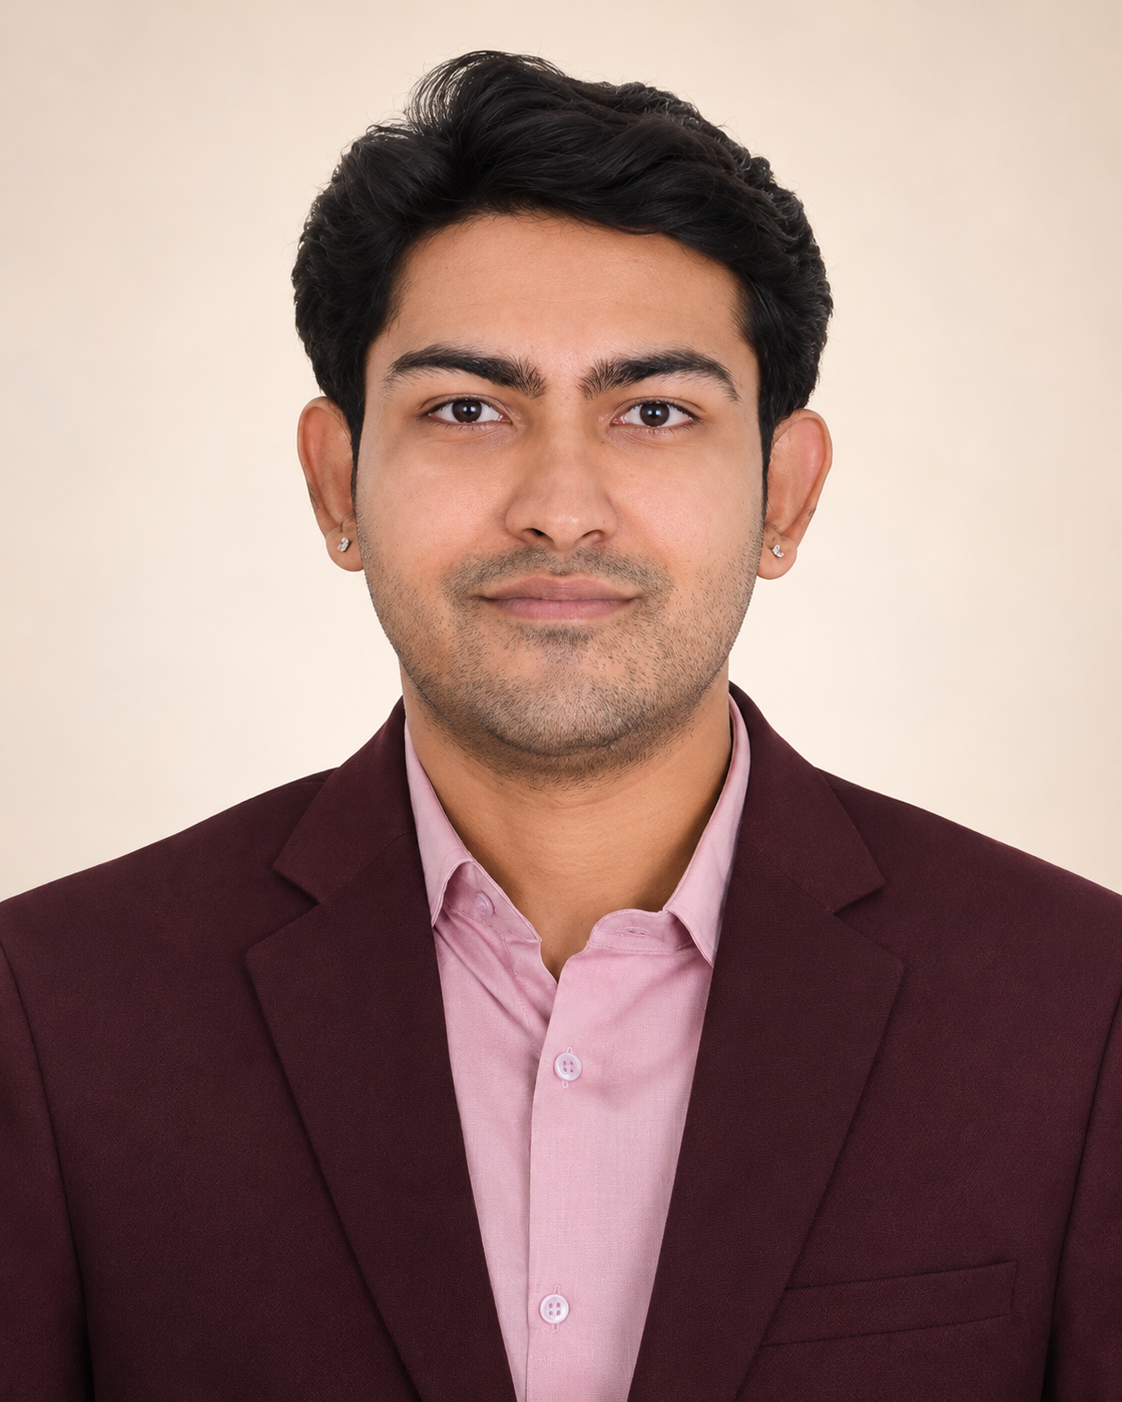
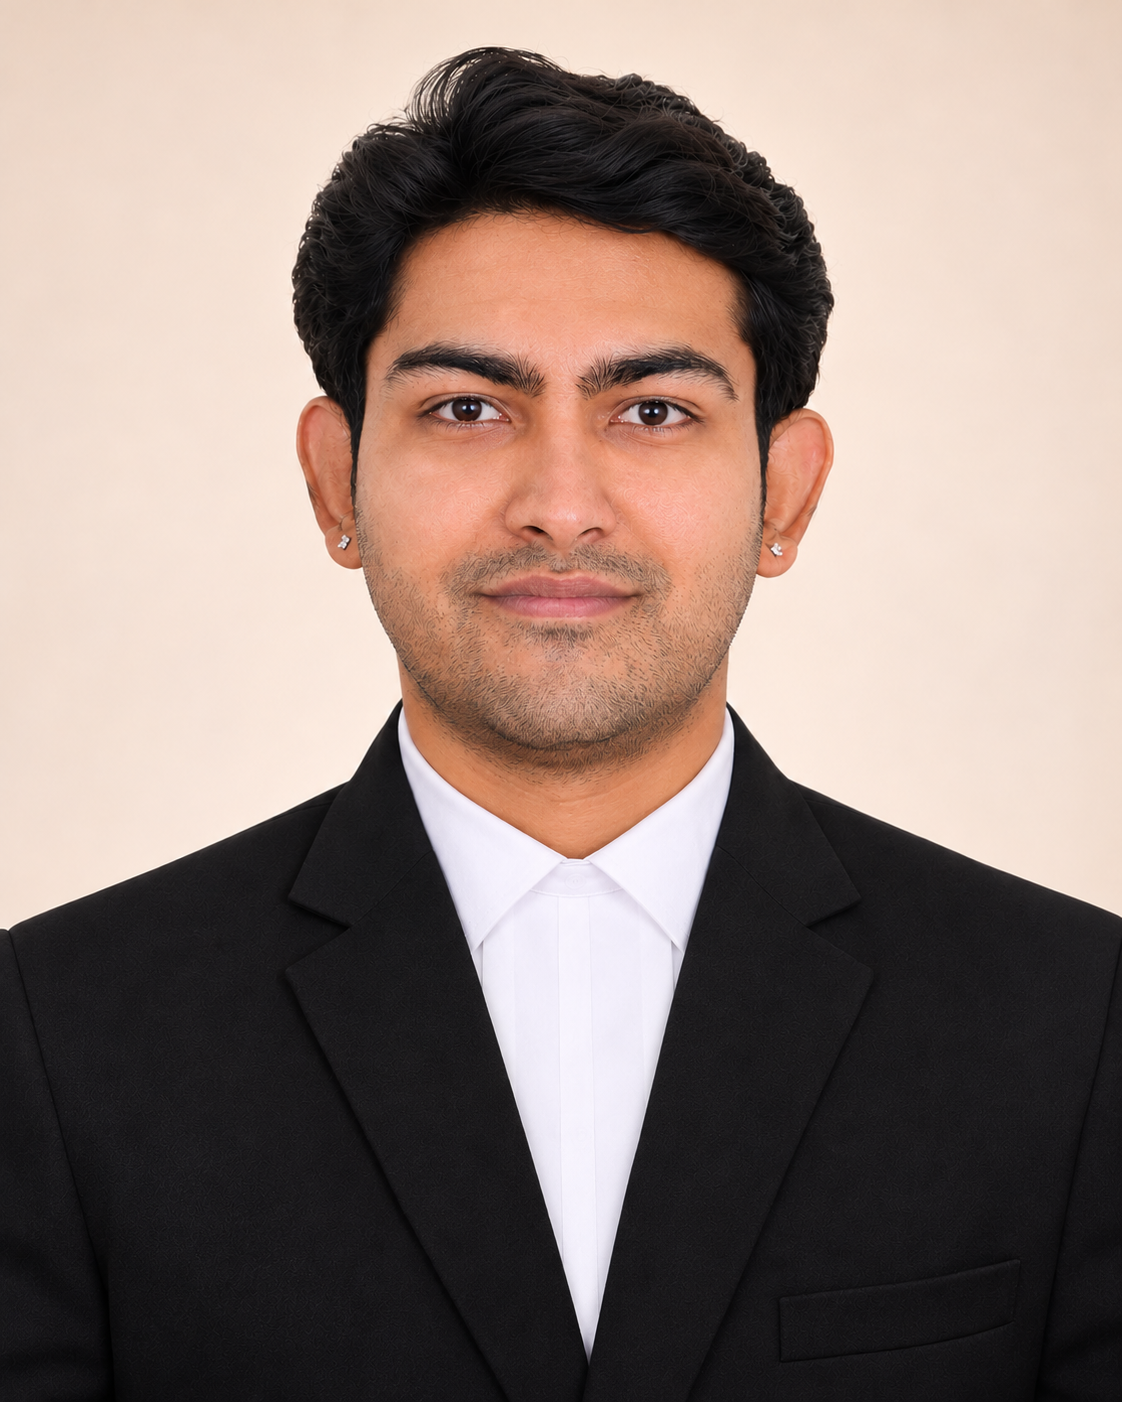
Update Divyansh Gupta portrait

diff --git a/about.html b/about.html
@@ -100,7 +100,7 @@
           <p>Over 38 years of legal practice across trial courts and High Courts throughout India.</p>
         </div>
         <div class="member portrait-reveal reveal reveal-d2">
-          <div class="member__photo member__photo--image"><img class="portrait-image" src="assets/Images/Divyansh%20Gupta.png" alt="Divyansh Gupta" width="1122" height="1402" loading="lazy" decoding="async"></div>
+          <div class="member__photo member__photo--image"><img class="portrait-image" src="assets/Images/Divyansh%20Gupta.png?v=2" alt="Divyansh Gupta" width="1122" height="1402" loading="lazy" decoding="async"></div>
           <span>Third Generation Advocate</span>
           <h3>Divyansh Gupta</h3>
           <!-- TODO: add qualifications, enrolment and practice areas -->
